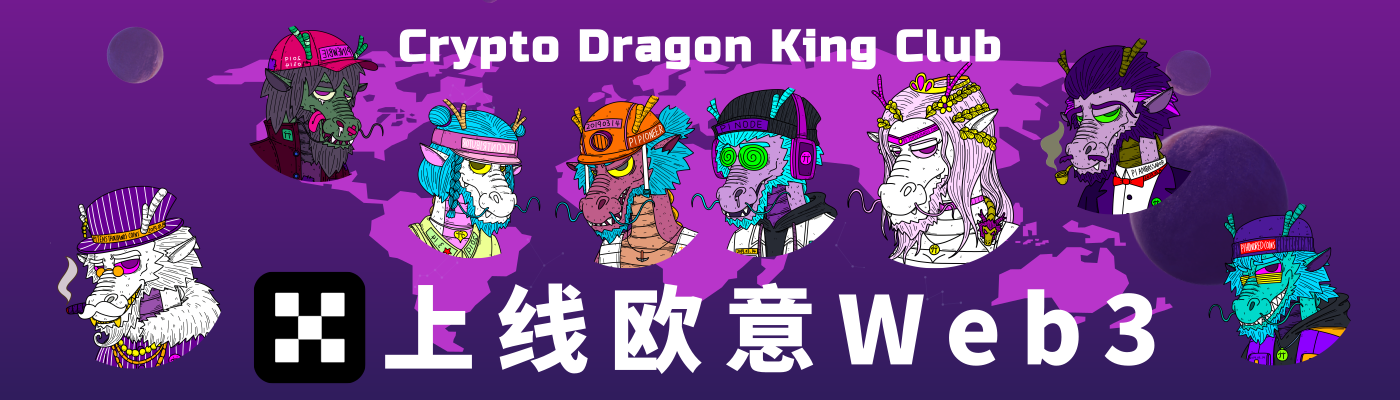
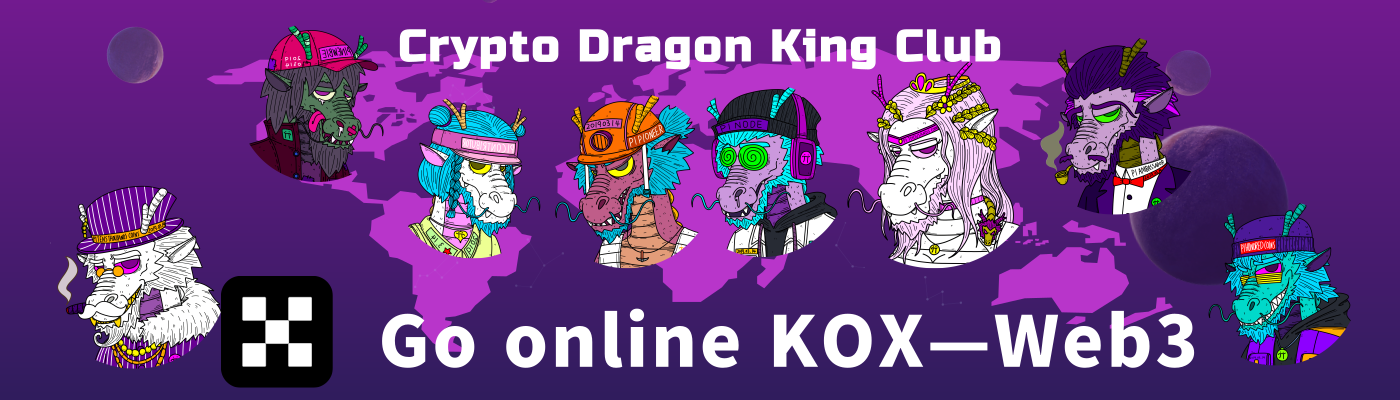
update from gridea: 2022-06-08 21:13:31

Changed region(s): [[0.1536, 0.66, 0.86, 0.99]]

diff --git a/post/pinft-jia-mi-long-wang-shang-xian-ou-yi-web3-metax/index.html b/post/pinft-jia-mi-long-wang-shang-xian-ou-yi-web3-metax/index.html
@@ -2,18 +2,18 @@
   <head>
     <meta charset="utf-8" />
 <meta name="viewport" content="width=device-width, initial-scale=1" />
-<title>PiNFT加密龙王上线欧意Web3——MetaX | Pi NFT-CryptoDragonKing</title>
-<link rel="shortcut icon" href="https://pinft.github.io/favicon.ico?v=1654686338750">
+<title>PiNFT加密龙王上线欧易Web3——MetaX | Pi NFT-CryptoDragonKing</title>
+<link rel="shortcut icon" href="https://pinft.github.io/favicon.ico?v=1654694008380">
 <link href="https://cdn.jsdelivr.net/npm/remixicon@2.3.0/fonts/remixicon.css" rel="stylesheet">
 <link rel="stylesheet" href="https://pinft.github.io/styles/main.css">
-<link rel="alternate" type="application/atom+xml" title="PiNFT加密龙王上线欧意Web3——MetaX | Pi NFT-CryptoDragonKing - Atom Feed" href="https://pinft.github.io/atom.xml">
+<link rel="alternate" type="application/atom+xml" title="PiNFT加密龙王上线欧易Web3——MetaX | Pi NFT-CryptoDragonKing - Atom Feed" href="https://pinft.github.io/atom.xml">
 <link rel="stylesheet" href="https://fonts.googleapis.com/css?family=Droid+Serif:400,700">
 
 
 
-    <meta name="description" content="作者表示地址达到7.5K左右将创作龙王V2给目前持有者（目前正在开发创作中）
-欧意链接：https://www.okx.com/web3/nft/markets/collection/Crypto-DragonKing
-唯一合约地址：0xf..." />
+    <meta name="description" content="作者表示地址达到7.5K左右将创作龙王V2 空投给目前持有者（目前正在开发创作中）
+欧易链接：https://www.okx.com/web3/nft/markets/collection/Crypto-DragonKing
+唯一合约地址：..." />
     <meta name="keywords" content="" />
     <link rel="stylesheet" href="https://cdnjs.cloudflare.com/ajax/libs/KaTeX/0.10.0/katex.min.css">
     <script src="https://cdn.bootcss.com/highlight.js/9.12.0/highlight.min.js"></script>
@@ -23,7 +23,7 @@
       <div class="main-content">
         <div class="site-header">
   <a href="https://pinft.github.io">
-  <img class="avatar" src="https://pinft.github.io/images/avatar.png?v=1654686338750" alt="">
+  <img class="avatar" src="https://pinft.github.io/images/avatar.png?v=1654694008380" alt="">
   </a>
   <h1 class="site-title">
     Pi NFT-CryptoDragonKing
@@ -108,7 +108,7 @@
         <div class="post-detail">
           <article class="post">
             <h2 class="post-title">
-              PiNFT加密龙王上线欧意Web3——MetaX
+              PiNFT加密龙王上线欧易Web3——MetaX
             </h2>
             <div class="post-info">
               <span>
@@ -124,8 +124,8 @@
             
             <div class="post-content-wrapper">
               <div class="post-content">
-                <p>作者表示地址达到7.5K左右将创作龙王V2给目前持有者（目前正在开发创作中）</p>
-<p>欧意链接：https://www.okx.com/web3/nft/markets/collection/Crypto-DragonKing</p>
+                <p>作者表示地址达到7.5K左右将创作龙王V2 空投给目前持有者（目前正在开发创作中）</p>
+<p>欧易链接：https://www.okx.com/web3/nft/markets/collection/Crypto-DragonKing</p>
 <p>唯一合约地址：0xf3892ecb9802c4bd13a123d9d1041654583915e1</p>
 
               </div>

diff --git a/post/关于Pi NFT/index.html b/post/关于Pi NFT/index.html
@@ -3,7 +3,7 @@
     <meta charset="utf-8" />
 <meta name="viewport" content="width=device-width, initial-scale=1" />
 <title>关于Pi Network的首个NFT艺术藏品加密龙王横空出世！ | Pi NFT-CryptoDragonKing</title>
-<link rel="shortcut icon" href="https://pinft.github.io/favicon.ico?v=1654686338750">
+<link rel="shortcut icon" href="https://pinft.github.io/favicon.ico?v=1654694008380">
 <link href="https://cdn.jsdelivr.net/npm/remixicon@2.3.0/fonts/remixicon.css" rel="stylesheet">
 <link rel="stylesheet" href="https://pinft.github.io/styles/main.css">
 <link rel="alternate" type="application/atom+xml" title="关于Pi Network的首个NFT艺术藏品加密龙王横空出世！ | Pi NFT-CryptoDragonKing - Atom Feed" href="https://pinft.github.io/atom.xml">
@@ -11,12 +11,11 @@
 
 
 
-    <meta name="description" content="
-🐲想知道什么是Pi NFT-CryptoDragonKing
+    <meta name="description" content="🐲想知道什么是Pi NFT-CryptoDragonKing
 🏳🌈  首先就要清楚什么是NFT；NFT有那些特点？什么是非同质化代币NFT？
 
 问题一：什么是非同质化代币（NFT）？🐲
-📝  NFT全称是Non Fungib..." />
+📝  NFT全称是Non Fungibl..." />
     <meta name="keywords" content="" />
     <link rel="stylesheet" href="https://cdnjs.cloudflare.com/ajax/libs/KaTeX/0.10.0/katex.min.css">
     <script src="https://cdn.bootcss.com/highlight.js/9.12.0/highlight.min.js"></script>
@@ -26,7 +25,7 @@
       <div class="main-content">
         <div class="site-header">
   <a href="https://pinft.github.io">
-  <img class="avatar" src="https://pinft.github.io/images/avatar.png?v=1654686338750" alt="">
+  <img class="avatar" src="https://pinft.github.io/images/avatar.png?v=1654694008380" alt="">
   </a>
   <h1 class="site-title">
     Pi NFT-CryptoDragonKing
@@ -127,8 +126,7 @@
             
             <div class="post-content-wrapper">
               <div class="post-content">
-                <!-- more -->
-<p><strong>🐲想知道什么是Pi NFT-CryptoDragonKing</strong><br>
+                <p><strong>🐲想知道什么是Pi NFT-CryptoDragonKing</strong><br>
 🏳🌈  <strong>首先就要清楚什么是NFT；NFT有那些特点？什么是非同质化代币NFT？</strong></p>
 <!-- more -->
 <h2 id="问题一什么是非同质化代币nft">问题一：什么是非同质化代币（NFT）？🐲</h2>

diff --git a/index.html b/index.html
@@ -3,7 +3,7 @@
     <meta charset="utf-8" />
 <meta name="viewport" content="width=device-width, initial-scale=1" />
 <title>Pi NFT-CryptoDragonKing</title>
-<link rel="shortcut icon" href="https://pinft.github.io/favicon.ico?v=1654686338750">
+<link rel="shortcut icon" href="https://pinft.github.io/favicon.ico?v=1654694008380">
 <link href="https://cdn.jsdelivr.net/npm/remixicon@2.3.0/fonts/remixicon.css" rel="stylesheet">
 <link rel="stylesheet" href="https://pinft.github.io/styles/main.css">
 <link rel="alternate" type="application/atom+xml" title="Pi NFT-CryptoDragonKing - Atom Feed" href="https://pinft.github.io/atom.xml">
@@ -20,7 +20,7 @@
       <div class="main-content">
         <div class="site-header">
   <a href="https://pinft.github.io">
-  <img class="avatar" src="https://pinft.github.io/images/avatar.png?v=1654686338750" alt="">
+  <img class="avatar" src="https://pinft.github.io/images/avatar.png?v=1654694008380" alt="">
   </a>
   <h1 class="site-title">
     Pi NFT-CryptoDragonKing
@@ -123,8 +123,7 @@
         </a>
       
       <div class="post-abstract">
-        <!-- more -->
-<p><strong>🐲想知道什么是Pi NFT-CryptoDragonKing</strong><br>
+        <p><strong>🐲想知道什么是Pi NFT-CryptoDragonKing</strong><br>
 🏳🌈  <strong>首先就要清楚什么是NFT；NFT有那些特点？什么是非同质化代币NFT？</strong></p>
 
       </div>
@@ -132,7 +131,7 @@
   
     <article class="post">
       <a href="https://pinft.github.io/post/pinft-jia-mi-long-wang-shang-xian-ou-yi-web3-metax/">
-        <h2 class="post-title">PiNFT加密龙王上线欧意Web3——MetaX</h2>
+        <h2 class="post-title">PiNFT加密龙王上线欧易Web3——MetaX</h2>
       </a>
       <div class="post-info">
         <span>

diff --git a/archives/index.html b/archives/index.html
@@ -3,7 +3,7 @@
     <meta charset="utf-8" />
 <meta name="viewport" content="width=device-width, initial-scale=1" />
 <title>Pi NFT-CryptoDragonKing</title>
-<link rel="shortcut icon" href="https://pinft.github.io/favicon.ico?v=1654686338750">
+<link rel="shortcut icon" href="https://pinft.github.io/favicon.ico?v=1654694008380">
 <link href="https://cdn.jsdelivr.net/npm/remixicon@2.3.0/fonts/remixicon.css" rel="stylesheet">
 <link rel="stylesheet" href="https://pinft.github.io/styles/main.css">
 <link rel="alternate" type="application/atom+xml" title="Pi NFT-CryptoDragonKing - Atom Feed" href="https://pinft.github.io/atom.xml">
@@ -20,7 +20,7 @@
       <div class="main-content">
         <div class="site-header">
   <a href="https://pinft.github.io">
-  <img class="avatar" src="https://pinft.github.io/images/avatar.png?v=1654686338750" alt="">
+  <img class="avatar" src="https://pinft.github.io/images/avatar.png?v=1654694008380" alt="">
   </a>
   <h1 class="site-title">
     Pi NFT-CryptoDragonKing
@@ -112,7 +112,7 @@
       
         <a href="https://pinft.github.io/post/pinft-jia-mi-long-wang-shang-xian-ou-yi-web3-metax/" class="post">
           <h2 class="post-title">
-            PiNFT加密龙王上线欧意Web3——MetaX
+            PiNFT加密龙王上线欧易Web3——MetaX
           </h2>
           <div class="time">2022-06-08</div>
         </a>

diff --git a/post/about/index.html b/post/about/index.html
@@ -3,7 +3,7 @@
     <meta charset="utf-8" />
 <meta name="viewport" content="width=device-width, initial-scale=1" />
 <title>联系我们 | Pi NFT-CryptoDragonKing</title>
-<link rel="shortcut icon" href="https://pinft.github.io/favicon.ico?v=1654686338750">
+<link rel="shortcut icon" href="https://pinft.github.io/favicon.ico?v=1654694008380">
 <link href="https://cdn.jsdelivr.net/npm/remixicon@2.3.0/fonts/remixicon.css" rel="stylesheet">
 <link rel="stylesheet" href="https://pinft.github.io/styles/main.css">
 <link rel="alternate" type="application/atom+xml" title="联系我们 | Pi NFT-CryptoDragonKing - Atom Feed" href="https://pinft.github.io/atom.xml">
@@ -27,7 +27,7 @@
       <div class="main-content">
         <div class="site-header">
   <a href="https://pinft.github.io">
-  <img class="avatar" src="https://pinft.github.io/images/avatar.png?v=1654686338750" alt="">
+  <img class="avatar" src="https://pinft.github.io/images/avatar.png?v=1654694008380" alt="">
   </a>
   <h1 class="site-title">
     Pi NFT-CryptoDragonKing

diff --git a/tags/index.html b/tags/index.html
@@ -3,7 +3,7 @@
   <meta charset="utf-8" />
 <meta name="viewport" content="width=device-width, initial-scale=1" />
 <title>Pi NFT-CryptoDragonKing</title>
-<link rel="shortcut icon" href="https://pinft.github.io/favicon.ico?v=1654686338750">
+<link rel="shortcut icon" href="https://pinft.github.io/favicon.ico?v=1654694008380">
 <link href="https://cdn.jsdelivr.net/npm/remixicon@2.3.0/fonts/remixicon.css" rel="stylesheet">
 <link rel="stylesheet" href="https://pinft.github.io/styles/main.css">
 <link rel="alternate" type="application/atom+xml" title="Pi NFT-CryptoDragonKing - Atom Feed" href="https://pinft.github.io/atom.xml">
@@ -20,7 +20,7 @@
       <div class="main-content">
         <div class="site-header">
   <a href="https://pinft.github.io">
-  <img class="avatar" src="https://pinft.github.io/images/avatar.png?v=1654686338750" alt="">
+  <img class="avatar" src="https://pinft.github.io/images/avatar.png?v=1654694008380" alt="">
   </a>
   <h1 class="site-title">
     Pi NFT-CryptoDragonKing
